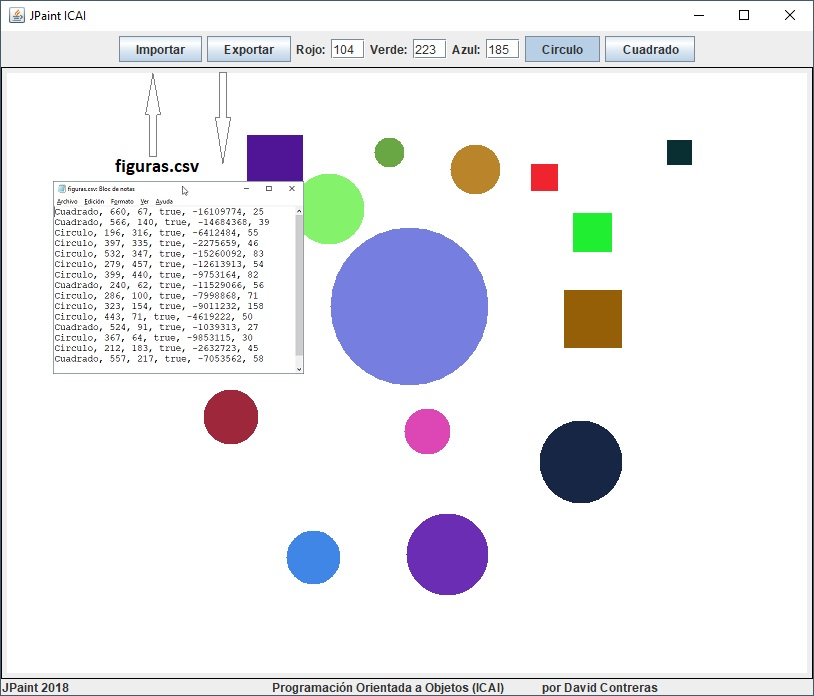
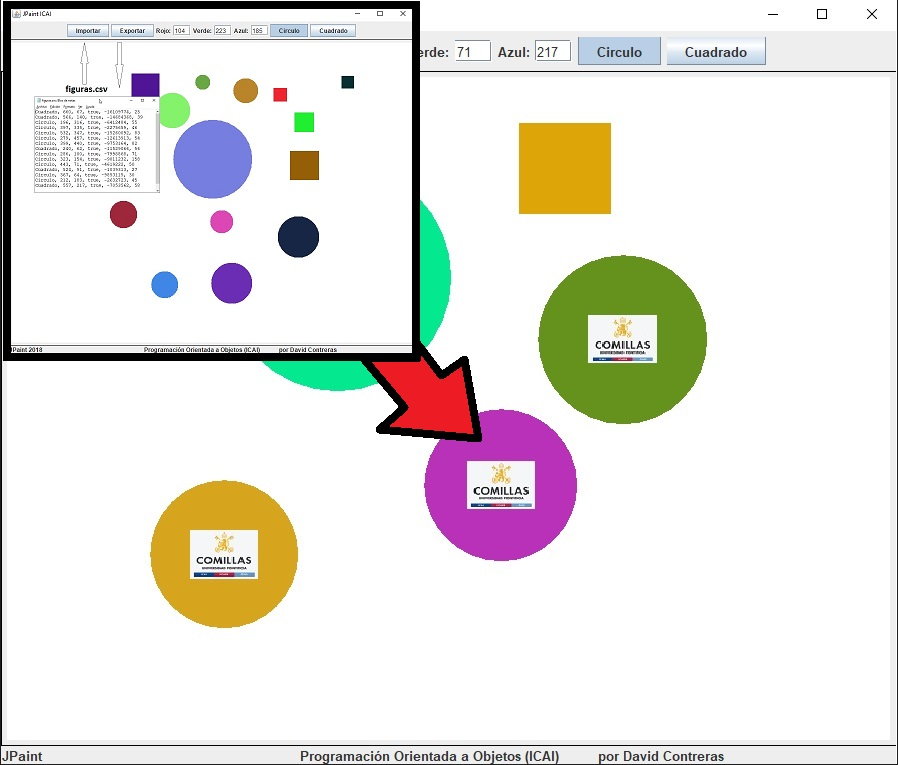
Ejemplo de inserción de imágenes con Graphics

diff --git a/88.dibujoVentanaImagenesJAR/README.md b/88.dibujoVentanaImagenesJAR/README.md
@@ -1,81 +1,10 @@
-## Práctica 12 y última. Java Avanzado. Ficheros.
+## Práctica 12 Modificada para pintar IMÁGENES.
 ### Exportar e importar las figuras de un CSV.
 
 #### Funcionalidad
 
-Tomar como base la práctica anterior.
-
-Exportar e importar los dibujos a ficheros ASCII compatibles por todas las aplicaciones separados por comas: CSV.
-
-La estructura del archivo a crear será la siguiente:
-```
-Tipo Objeto, x, y, relleno, color.getRGB(), lado/radio
-```
-
-
-Por último, deberéis probad a importar este fichero a ver cuál es el resultado:
-```
-Circulo, 223, 125, true, -14629765, 301
-Circulo, 211, 180, true, -4427753, 16
-Circulo, 223, 191, true, -8254967, 12
-Circulo, 230, 197, true, -9597360, 12
-Circulo, 480, 106, true, -1754489, 131
-Cuadrado, 276, 387, true, -3088392, 34
-Cuadrado, 279, 416, true, -5897908, 26
-Cuadrado, 266, 430, true, -14901128, 43
-Cuadrado, 450, 385, true, -6723595, 30
-Cuadrado, 445, 411, true, -4728994, 43
-Cuadrado, 438, 448, true, -12148377, 31
-Cuadrado, 460, 447, true, -7567623, 25
-Cuadrado, 472, 450, true, -7719596, 17
-Cuadrado, 477, 462, true, -6526159, 21
-Circulo, 562, 141, true, -165605, 20
-Cuadrado, 603, 159, true, -5572132, 23
-Cuadrado, 623, 175, true, -6055082, 22
-Cuadrado, 637, 184, true, -15096599, 29
-Cuadrado, 662, 195, true, -10290904, 36
-Cuadrado, 691, 193, true, -10799311, 32
-Cuadrado, 715, 186, true, -11565820, 24
-Cuadrado, 723, 177, true, -12376487, 26
-Cuadrado, 735, 165, true, -179318, 16
-Cuadrado, 742, 159, true, -1465045, 12
-Circulo, 488, 100, true, -12416876, 21
-Circulo, 488, 117, true, -9203344, 22
-Circulo, 509, 122, true, -9372080, 21
-Circulo, 484, 130, true, -4085385, 43
-Circulo, 541, 179, true, -10700367, 9
-Circulo, 507, 110, true, -4752476, 28
-Circulo, 514, 146, true, -1389533, 26
-Circulo, 489, 163, true, -11200284, 42
-Circulo, 516, 167, true, -10649007, 38
-Cuadrado, 573, 196, true, -10935609, 9
-Cuadrado, 578, 204, true, -7348077, 7
-Cuadrado, 584, 209, true, -5463323, 8
-Cuadrado, 239, 25, true, -11631343, 34
-Cuadrado, 240, 57, true, -1060680, 33
-Circulo, 270, 26, true, -5110779, 37
-Circulo, 337, 28, true, -9567513, 56
-Circulo, 426, 33, true, -7439081, 43
-Circulo, 422, 30, true, -12774435, 51
-Cuadrado, 256, 25, true, -886850, 23
-Cuadrado, 257, 50, true, -836154, 19
-Cuadrado, 264, 46, true, -8101659, 17
-Cuadrado, 264, 66, true, -11719637, 14
-Cuadrado, 267, 79, true, -13765616, 13
-Circulo, 272, 20, true, -6855277, 35
-Circulo, 279, 30, true, -8584090, 32
-Circulo, 429, 28, true, -13552909, 51
-Circulo, 451, 47, true, -15299603, 32
-Circulo, 422, 29, true, -10317504, 63
-Circulo, 338, 30, true, -14076025, 56
-Cuadrado, 602, 181, true, -5843085, 30
-Cuadrado, 634, 197, true, -5840314, 18
-Cuadrado, 628, 203, true, -16017509, 24
-Cuadrado, 646, 215, true, -10889017, 27
-Cuadrado, 651, 208, true, -4940295, 22
-Cuadrado, 673, 221, true, -3330956, 24
-Cuadrado, 695, 219, true, -1994385, 17
-```
+Se modifica la práctica 12 para que pueda pintar imágenes en el interior de las figuras.
+Es solo un ejemplo para aprender a gestionar imágenes con un objeto Graphics.
 
 #### Diseño 
 
